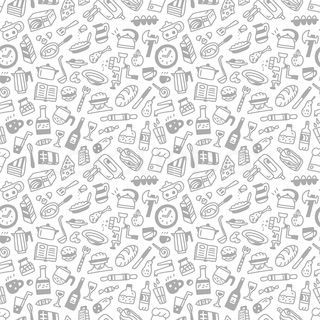
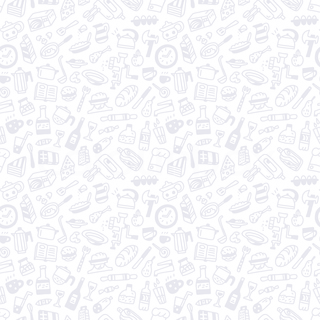
ajuste de estilos y paletas

diff --git a/cuentas-claras/www/templates/invitados.html b/cuentas-claras/www/templates/invitados.html
@@ -4,7 +4,7 @@
       <div class="ink ink-dark">
         <div class="row ">
           <div class="col">
-            Total Gastos
+            Total gastado
           </div>
           <div class="text-right col">
             <i class="icon ion-social-usd"></i> {{totalCategorias()}}
@@ -16,7 +16,7 @@
       <div class="ink ink-dark">
         <div class="row ">
           <div class="col">
-            Recaudado
+            Ya me pagaron
           </div>
           <div class="text-right col">
             <i class="icon ion-social-usd "></i> {{recaudado}}
@@ -69,9 +69,7 @@
 
   </ion-content>
   <toast></toast>
-  <div ng-show="getInvitados().length == 0" class="tutorial animate-fade-in">
-     Hacé click en el <strong><i class="icon ion-plus-circled"></i></strong> para agregar in invitado
-  </div>
+  <img src="img/tutorial2.png" class="tutorial" ng-show="getInvitados().length == 0">
 
   <button id="fab-invitado-plus" ng-click="nuevoInvitado()"
           class="button button-fab button-fab-bottom-right expanded button-green spin"><i

diff --git a/cuentas-claras/www/templates/categorias.html b/cuentas-claras/www/templates/categorias.html
@@ -1,10 +1,10 @@
 <ion-view view-title="Qué compramos?">
-  <div class="categorias-subtotales has-header">
+  <div class="categorias-subtotales has-header animate-ripple">
   <ion-item class="item-totals">
     <div class="ink ink-dark">
       <div class="row">
         <div class="col">
-          Total Gastos
+          Total gastado
         </div>
         <div class="text-right col">
           <i class="icon ion-social-usd"></i> {{calcularTotal()}}
@@ -38,10 +38,8 @@
   </ion-content>
 
 
+    <img src="img/tutorial 1.png" class="tutorial"  ng-show="getCategorias().length == 0">
 
-    <div  ng-show="getCategorias().length == 0" class="tutorial animate-fade-in " >
-      Hacé click en el <strong><i class="icon ion-plus-circled"></i></strong> para agregar una categoría
-    </div>
 
   <button id="fab-categoria-plus" ng-click="nuevaCategoria()"
           class="button button-fab button-fab-bottom-right expanded button-green spin"><i

diff --git a/cuentas-claras/www/css/style.css b/cuentas-claras/www/css/style.css
@@ -109,7 +109,8 @@
   from { height: 0; }
   to { height: 2em; }
 }
-ion-view:before{
+
+.scroll-content{
   content: ' ';
   display: block;
   position: absolute;
@@ -121,14 +122,8 @@ ion-view:before{
   background-image: url("/img/background.png");
 
   background-position: 50% 0;
-
-  opacity: 0.15;
-
-}
-
-ion-view{
   background-color: rgb(245,245,245) !important;
-opacity: 1;
+
 
 }
 
@@ -191,15 +186,11 @@ opacity: 1;
 }
 .tutorial{
   position: fixed;
-  bottom: 6em;
-  left: 1em;
-  background-color: rgb(231, 238, 243);
-  color: rgb(31, 101, 150);
+  bottom: 1em;
+  right: 4em;
   padding: 10px;
-  border-radius: 2px;
-  text-align: center;
   display: block;
-  box-shadow: 10px 10px 10px 0px rgba(0, 0, 0, .26);
+
 }
 .item-md-label input{
   background-color: transparent;
